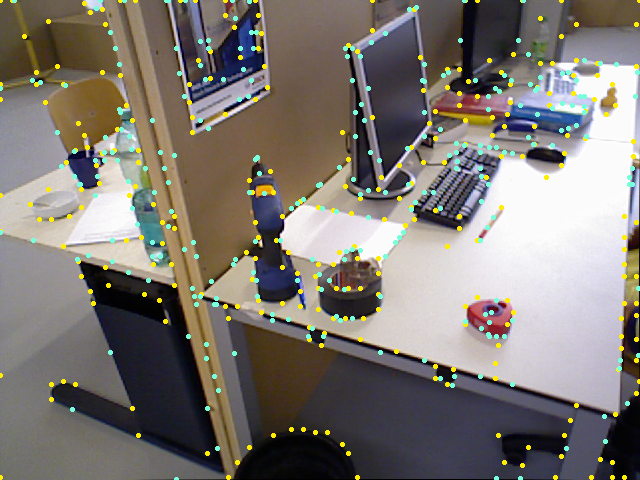
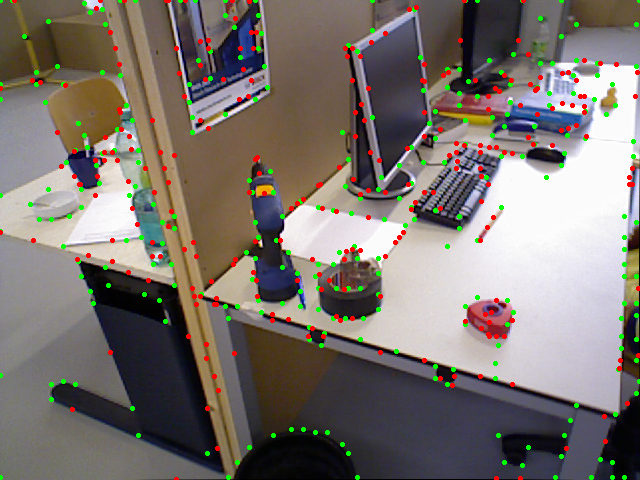
Starting to generate maps

diff --git a/salgan/predictor.py b/salgan/predictor.py
@@ -17,8 +17,8 @@ import matplotlib.pyplot as plt
 import common.bowhandler as bowh
 
 
-scalex = 1 # 10
-scaley = 1 # 10
+scalex = 20 # 1
+scaley = 20 # 1
 
 all_keypoints = []
 model = None
@@ -39,7 +39,7 @@ def extractHeatmap(img):
     if img.shape[:2] != (model.inputHeight, model.inputWidth):
         img = cv2.resize(img, (model.inputWidth, model.inputHeight), interpolation=cv2.INTER_AREA)
     
-    cv2.imwrite('in.png', img)
+    # cv2.imwrite('in.png', img)
 
     blob = np.zeros((1, 3, model.inputHeight, model.inputWidth), theano.config.floatX)
 
@@ -56,8 +56,10 @@ def extractHeatmap(img):
 
 def loadModel():
     global model
-    model = ModelBCE(INPUT_SIZE[0], INPUT_SIZE[1], batch_size=8)
-    # model = ModelBCE(640//scalex, 480//scaley, batch_size=8)
+    if scalex == 1 and scaley == 1:
+        model = ModelBCE(INPUT_SIZE[0], INPUT_SIZE[1], batch_size=8)
+    else:
+        model = ModelBCE(640//scalex, 480//scaley, batch_size=8)
     load_weights(model.net['output'], path='gen_', epochtoload=90)
 
 
@@ -78,7 +80,7 @@ def runSalgan(frames):
         # cv2.imwrite('gray.png', img_gs)
         # cv2.imwrite('in.png', img)
         heatmap = extractHeatmap(img)
-        cv2.imwrite('heat.png', heatmap)
+        # cv2.imwrite('heat.png', heatmap)
         # heatmap = cv2.imread('heat.png', IMREAD_GRAYSCALE)
         # keypoints = generator.generateKeypoints(img_gs, heatmap)
         # pickle.dump(keypoints, open("keypoints", "wb"))
@@ -89,8 +91,8 @@ def runSalgan(frames):
         descriptor = []
         generator.scalex = scalex
         generator.scaley = scaley
-        keypoints = generator.generateKeypoints(img_gs, heatmap)
-        # keypoints, descriptor = generator.generateKeypointsAndDescriptors(img_gs, heatmap)
+        # keypoints = generator.generateKeypoints(img_gs, heatmap)
+        keypoints, descriptor = generator.generateKeypointsAndDescriptors(img_gs, heatmap)
         all_keypoints.append(keypoints)
 
         # print("\nDescriptor from SALGAN\n")

diff --git a/common/handler.py b/common/handler.py
@@ -491,9 +491,9 @@ def showKeyPointsBoth(image, suppoints, salpoints):
     cv2.resizeWindow(name, 640*2, 480)
 
     for sup in suppoints:
-            cv2.circle(image, (int(sup.pt[0]), int(sup.pt[1])), radius=1, color=(0, 238, 255), thickness=2)
+            cv2.circle(image, (int(sup.pt[0]), int(sup.pt[1])), radius=1, color=(0, 255, 0), thickness=2)
     for sal in salpoints:
-            cv2.circle(image, (int(sal.pt[0]), int(sal.pt[1])), radius=1, color=(219, 255, 120), thickness=2)
+            cv2.circle(image, (int(sal.pt[0]), int(sal.pt[1])), radius=1, color=(0, 0, 255), thickness=2)
 
     
     cv2.imwrite(f'{name}.png', image)
